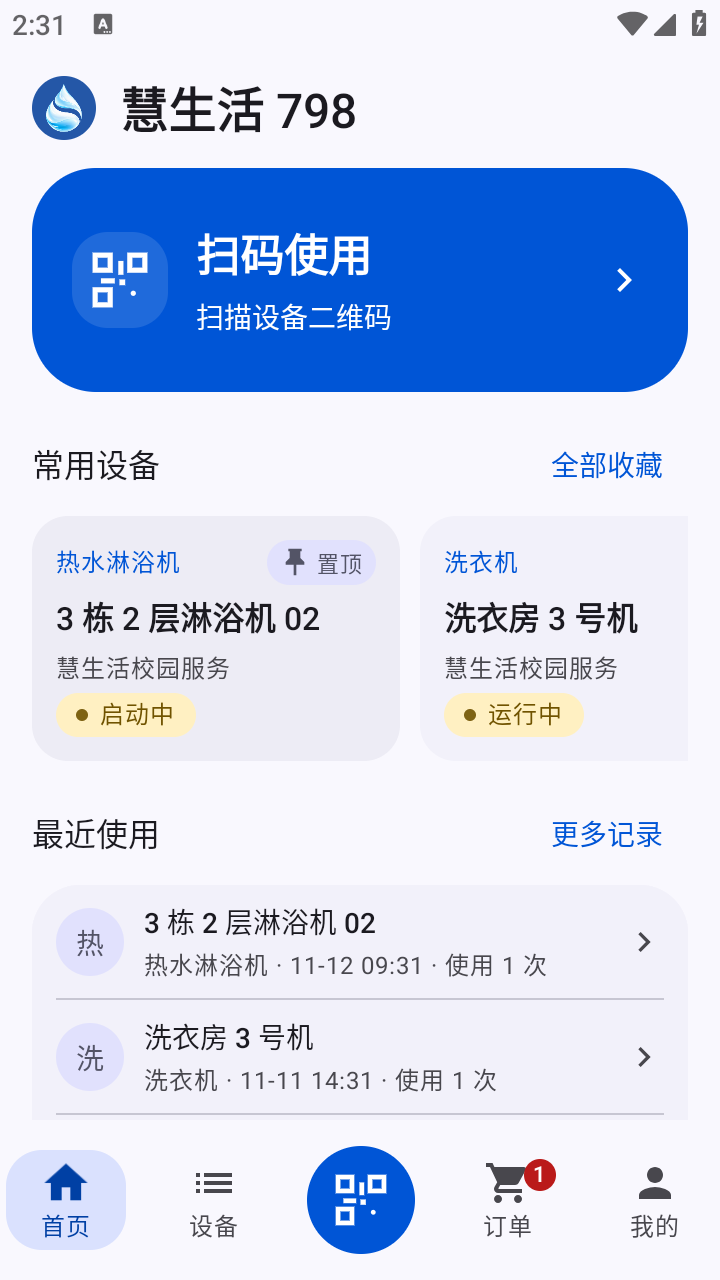
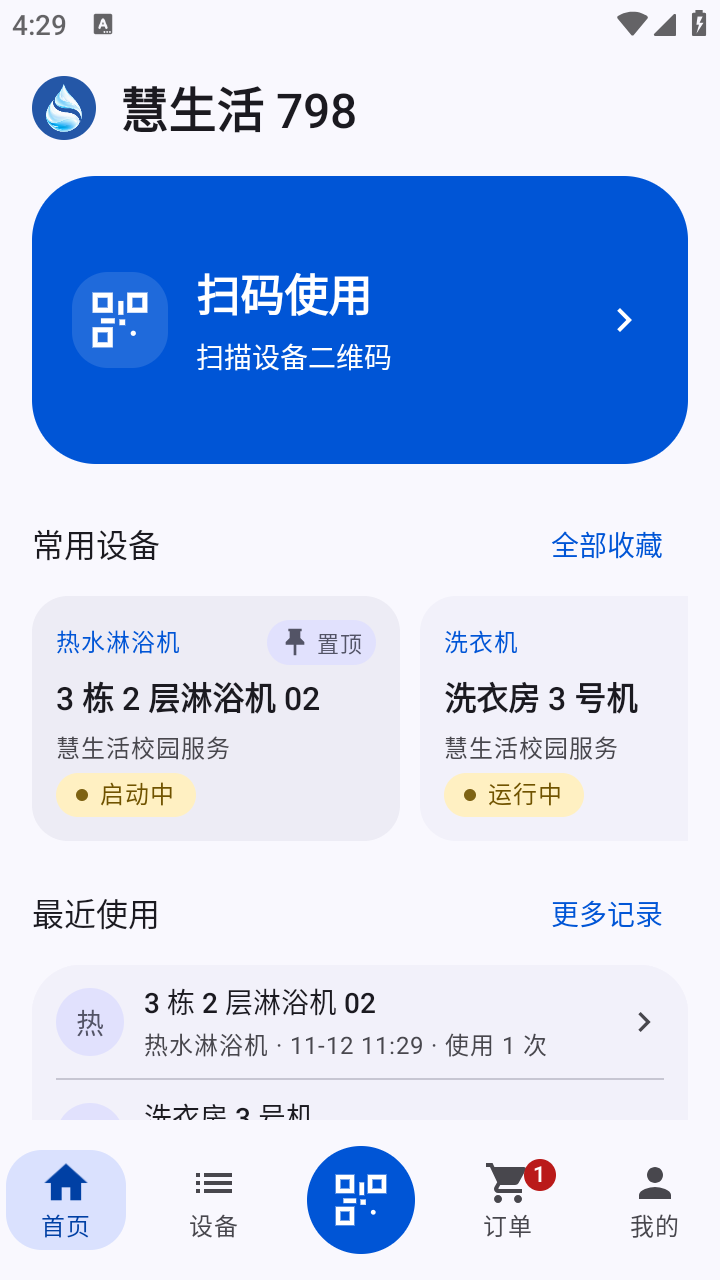
fix(ui): 放大扫码触控区并移除设备详情订单入口

diff --git a/SmartLife798/app/src/androidTest/java/com/smartlife798/app/VisualAlignmentChecks.kt b/SmartLife798/app/src/androidTest/java/com/smartlife798/app/VisualAlignmentChecks.kt
@@ -68,7 +68,7 @@ object VisualAlignmentChecks {
                     val height = test.targetContext.resources.displayMetrics.heightPixels
                     val density = test.targetContext.resources.displayMetrics.density
                     val scanCard = cardBounds(test, "扫码使用")
-                    check(scanCard.height() >= (112 * density).toInt()) { "Scan entry is too short: $scanCard" }
+                    check(scanCard.height() >= (144 * density).toInt()) { "Scan entry is too short: $scanCard" }
                     shell(test, "input swipe ${width / 2} ${height * 3 / 4} ${width / 2} ${height / 2} 250")
                     SystemClock.sleep(300)
                     val before = cardBounds(test, first.name)
@@ -95,6 +95,8 @@ object VisualAlignmentChecks {
                 capture("devices-${theme.name.lowercase()}")
                 open("3 栋 2 层淋浴机 02")
                 await { find(test, "当前模式") != null }
+                await { find(test, "已收藏") != null && find(test, "已置顶") != null }
+                check(find(test, "订单") == null) { "Device detail exposes the orders shortcut" }
                 capture("detail-${theme.name.lowercase()}")
                 back()
                 open("订单")
@@ -144,17 +146,30 @@ object VisualAlignmentChecks {
             repeat(cards - 1) { open("下一步"); SystemClock.sleep(400) }
             open("开始使用")
             await { vm.guideDeck.value == null }
-            stage = "scanner and manual input"
+            stage = "scanner upper edge and manual input"
             open("首页")
             await { find(test, "扫码使用") != null }
             SystemClock.sleep(500)
-            open("扫码使用")
+            val density = test.targetContext.resources.displayMetrics.density
+            val edgeInset = (8 * density).toInt()
+            val scanCard = cardBounds(test, "扫码使用")
+            shell(test, "input tap ${scanCard.centerX()} ${scanCard.top + edgeInset}")
             await { find(test, "手动输入") != null }
             capture("scan")
             open("手动输入")
             await { find(test, "查询设备") != null }
             capture("manual-input")
             back()
+            await { find(test, "手动输入") != null }
+            back()
+            await { find(test, "扫码使用") != null }
+            stage = "scanner lower edge and surrounding gap"
+            SystemClock.sleep(500)
+            val returnedScanCard = cardBounds(test, "扫码使用")
+            shell(test, "input tap ${returnedScanCard.centerX()} ${returnedScanCard.bottom + edgeInset}")
+            SystemClock.sleep(300)
+            check(find(test, "扫码使用") != null && find(test, "手动输入") == null)
+            shell(test, "input tap ${returnedScanCard.centerX()} ${returnedScanCard.bottom - edgeInset}")
             await { find(test, "手动输入") != null }
             back()
             await { find(test, "扫码使用") != null }

diff --git a/SmartLife798/app/src/main/java/com/smartlife798/app/ui/DeviceDetailScreen.kt b/SmartLife798/app/src/main/java/com/smartlife798/app/ui/DeviceDetailScreen.kt
@@ -91,7 +91,6 @@ fun DeviceDetailScreen(
     vm: MainViewModel,
     deviceId: String,
     onBack: () -> Unit,
-    onOpenOrders: () -> Unit,
     autoStart: Boolean = false,
     nfcTicket: String = "",
     onNeedPayment: () -> Unit = {},
@@ -462,7 +461,6 @@ fun DeviceDetailScreen(
                             }
                         },
                         onPin = { vm.togglePinned(deviceId) },
-                        onOpenOrders = onOpenOrders,
                     )
                 }
 
@@ -610,7 +608,6 @@ private fun HeroCard(
     onAction: () -> Unit,
     onFavorite: () -> Unit,
     onPin: () -> Unit,
-    onOpenOrders: () -> Unit,
 ) {
     val state = if (access?.notice != null) com.smartlife798.app.core.DeviceState(
         DeviceStateKind.RUNNING, access.label ?: "状态待确认",
@@ -741,14 +738,6 @@ private fun HeroCard(
                     )
                     Spacer(Modifier.width(4.dp))
                     Text(if (pinned) "已置顶" else "置顶", style = MaterialTheme.typography.labelMedium, maxLines = 2)
-                }
-                OutlinedButton(
-                    shapes = androidx.compose.material3.ButtonDefaults.shapes(),
-                    onClick = onOpenOrders,
-                    modifier = Modifier.weight(1f).heightIn(min = AppLayout.ActionHeight),
-                    contentPadding = androidx.compose.foundation.layout.PaddingValues(horizontal = 4.dp, vertical = 10.dp),
-                ) {
-                    Text("订单", style = MaterialTheme.typography.labelMedium, maxLines = 2)
                 }
             }
             Text(

diff --git a/SmartLife798/app/src/main/java/com/smartlife798/app/ui/HomeScreen.kt b/SmartLife798/app/src/main/java/com/smartlife798/app/ui/HomeScreen.kt
@@ -196,7 +196,9 @@ fun HomeScreen(
                     )
                 }
             }
-            item(key = "scan") { ScanHeroCard(onScan) }
+            item(key = "scan") {
+                ScanHeroCard(onScan, modifier = Modifier.padding(vertical = 4.dp))
+            }
             item(key = "favorites") {
                 Column(verticalArrangement = Arrangement.spacedBy(2.dp)) {
                     SectionHeader(
@@ -273,18 +275,18 @@ fun HomeScreen(
 }
 
 @Composable
-private fun ScanHeroCard(onScan: () -> Unit) {
+private fun ScanHeroCard(onScan: () -> Unit, modifier: Modifier = Modifier) {
     val palette = MaterialTheme.colorScheme.scanCardColors()
     Card(
         onClick = onScan,
-        modifier = Modifier.sharedCard(CardOrigin.HOME_SCAN).fillMaxWidth(),
+        modifier = modifier.sharedCard(CardOrigin.HOME_SCAN).fillMaxWidth(),
         shape = MaterialTheme.shapes.extraLarge,
         colors = CardDefaults.cardColors(containerColor = palette.container, contentColor = palette.content),
     ) {
         Row(
             modifier = Modifier
                 .fillMaxWidth()
-                .heightIn(min = 112.dp)
+                .heightIn(min = 144.dp)
                 .padding(horizontal = 20.dp, vertical = AppLayout.Card),
             verticalAlignment = Alignment.CenterVertically,
             horizontalArrangement = Arrangement.spacedBy(14.dp),

diff --git a/SmartLife798/app/src/androidTest/java/com/smartlife798/app/DetailRenderingChecks.kt b/SmartLife798/app/src/androidTest/java/com/smartlife798/app/DetailRenderingChecks.kt
@@ -144,8 +144,7 @@ object DetailRenderingChecks {
                                                 // Match a Navigation destination: reads may render at
                                                 // STARTED, but device polling waits for RESUMED.
                                                 CompositionLocalProvider(LocalLifecycleOwner provides entryOwner) {
-                                                    DeviceDetailScreen(vm, sample.id, onBack = { expanded = false },
-                                                        onOpenOrders = {})
+                                                    DeviceDetailScreen(vm, sample.id, onBack = { expanded = false })
                                                 }
                                             }
                                         } else {

diff --git a/SmartLife798/app/src/main/java/com/smartlife798/app/MainActivity.kt b/SmartLife798/app/src/main/java/com/smartlife798/app/MainActivity.kt
@@ -537,10 +537,6 @@ private fun AppRoot(
                                     autoStart = autoStart,
                                     nfcTicket = entry.arguments?.getString("nfcTicket").orEmpty(),
                                     onBack = { if (navController.currentBackStackEntry?.id == entry.id) navController.popBackStack() },
-                                    onOpenOrders = {
-                                        navController.popBackStack()
-                                        navigateTab(navController, "orders")
-                                    },
                                     onNeedPayment = {
                                         navigateTab(navController, "orders")
                                     },

diff --git a/SmartLife798/app/src/androidTest/java/com/smartlife798/app/DeviceAccessChecks.kt b/SmartLife798/app/src/androidTest/java/com/smartlife798/app/DeviceAccessChecks.kt
@@ -81,7 +81,7 @@ object DeviceAccessChecks {
                 val entry = ++render
                 scroll = LazyListState()
                 screen.setContent { SmartLifeTheme { key(entry) {
-                    DeviceDetailScreen(vm, "access-fixture", onBack = {}, onOpenOrders = {}, autoStart = auto,
+                    DeviceDetailScreen(vm, "access-fixture", onBack = {}, autoStart = auto,
                         listState = scroll)
                 } } }
             }

diff --git a/SmartLife798/app/src/androidTest/java/com/smartlife798/app/EndFlowChecks.kt b/SmartLife798/app/src/androidTest/java/com/smartlife798/app/EndFlowChecks.kt
@@ -88,7 +88,7 @@ object EndFlowChecks {
                     vm = ViewModelProvider(screen)[MainViewModel::class.java]
                     screen.setContent {
                         SmartLifeTheme {
-                            DeviceDetailScreen(vm, "end-fixture", onBack = {}, onOpenOrders = {})
+                            DeviceDetailScreen(vm, "end-fixture", onBack = {})
                         }
                     }
                 }

diff --git a/docs/02-功能设计与UI方案.md b/docs/02-功能设计与UI方案.md
@@ -126,7 +126,7 @@ App
           ├── 顶部：返回 / 标题 / 刷新
           ├── 主卡：类型 · 名称 · 状态 · 编号 · 商户 · 当前模式 · 更新时间
           ├── 主按钮：立即使用 / 结束使用并结算 / 离线禁用
-          ├── 次操作：收藏 · 置顶 · 订单
+          ├── 次操作：收藏 · 置顶
           ├── 模式选择（有 parts 时）
           ├── 支付方式（有 payItems 时，标注 SDK 限制）
           ├── 设备信息（名称/编号/类型/位置/单位/固件/说明/收藏态）
@@ -147,10 +147,10 @@ App
 
 ### 4.2 首页
 
-- 顶部显示应用图标与「慧生活 798」，页面沿统一边距对齐，分组间隔为 12dp，支持下拉刷新。
+- 顶部显示应用图标与「慧生活 798」，页面沿统一边距对齐，普通分组间隔为 12dp，支持下拉刷新。
 - **进行中使用卡片**优先置于扫码入口上方（主题 tertiary 色）：受理后先显示「启动待确认」，不显示用时或声称运行；确认后显示服务端状态、更新时间与本机用时。结束使用为卡片主按钮，下方提供查看设备和使用记录。结束期间保持卡片和「正在结束…」；未确认则提示并保留查询入口。返回首页与重建恢复、轮询及并发规则见 [启动确认与对账](03-技术方案与开发计划.md#31-全自动刷新无手动刷新按钮)。
 
-- **扫码主卡**：二维码图标、操作标题与一句说明，整卡最小高度为 112dp，点击任意位置打开相机。
+- **扫码主卡**：二维码图标、操作标题与一句说明，整卡最小高度为 144dp，上下与相邻区块至少间隔 16dp，点击卡片打开相机。
 - **常用设备**采用横滑卡片。多个收藏时，360dp 默认字号下单卡宽 184dp，让下一台设备露出更多；内容区能容纳两张易读卡片时并排完整展示。窄屏大字下卡片随字号加宽，单个收藏时占满内容区。卡片显示类型、名称、位置或编号、状态及置顶标记。
 - **最近使用**在同一容器中列出最多四条记录，使用紧凑的分隔行，每行触控区域至少 48dp；显示设备名称、类型、日期时间和使用次数。
 - 常用设备为空时提示从设备详情收藏，最近使用为空时提示暂无记录。
@@ -169,7 +169,7 @@ App
 - **主卡**：类型标签、设备名（大字）、状态胶囊、编号、商户；运行中时显示"当前模式/更新时间"。
 - **主按钮**：随状态与占用身份显示立即使用、本账号结束使用并结算、他人/未知占用禁用提示、离线、停用或蓝牙提示。忙碌时置灰并显示进度；受理、启动确认与结束确认分别表述，未知结果引导刷新，不提前显示成功。状态变化及时解锁，不加固定冷却；确认规则和 `StartCommandLock` 边界统一见 [docs/03](03-技术方案与开发计划.md#31-全自动刷新无手动刷新按钮)。
 
-- **次操作**：收藏（服务端）、置顶（本机）、订单（跳转）。
+- **次操作**：收藏（服务端）、置顶（本机），两个按钮等宽。
 - **模式**：Chip 组，来自 `bm.parts`，标注"费率来自服务端配置"。
 - **支付方式**：Chip 组，来自 `payItems`；支付宝（21）、余额类（91/92/93）及微信（11）按共用渠道能力选择；未集成渠道明确提示，微信实付另受开放平台配置约束。
 - **信息卡**：名称/编号（等宽字体）/类型/位置/服务单位/固件/使用说明/收藏状态。
@@ -361,19 +361,19 @@ App
 
 | 页面 | 文件 | 来源与限制 |
 |---|---|---|
-| 首页 | [home.png](../screenshots/home.png) | 2.2.8 / 88 离线开发构建，API 28，默认字号 |
+| 首页 | [home.png](../screenshots/home.png) | 2.2.9 / 89 离线开发构建，API 28，默认字号 |
 | 设备 | [devices.png](../screenshots/devices.png) | 2.1.1，浅色列表、置顶优先与可辨识的未选中按钮 |
 | 订单 | [orders.png](../screenshots/orders.png) | 2.1.1，普通记录 |
 | 待付款 | [preview_bills.png](../screenshots/preview_bills.png) | 2.1.1，账单筛选 |
 | 我的 | [me.png](../screenshots/me.png) | 2.1.1，账号资料均为离线夹具 |
 | 钱包 | [wallet.png](../screenshots/wallet.png) | 2.1.1，仅展示夹具商品、未创建充值单 |
-| 设备详情 | [device.png](../screenshots/device.png) | 2.1.1，仅读取夹具，不启停设备 |
+| 设备详情 | [device.png](../screenshots/device.png) | 2.2.9 / 89 离线开发构建，API 28，收藏和置顶等宽 |
 | 登录 | [login.png](../screenshots/login.png) | 2.2.5，API 36.1 离线模拟器，360dp、默认字体，图形码为测试夹具 |
 | 浅色外观 | [appearance_light.png](../screenshots/appearance_light.png) | 本次样式开发构建 2.1.2 / 70，API 28，浅色更新按钮与选项层级 |
 | 提示条 | [notice.png](../screenshots/notice.png) | 1.19.6，真实 Snackbar + 虚构签到响应 |
 | 账单详情 | [bill_detail.png](../screenshots/bill_detail.png) | 当前离线开发构建，固定视口、左暂不支付右去支付且等宽等高 |
 | 浅色支付面板 | [payment.png](../screenshots/payment.png) | 2.1.1，仅读取渠道，零付款/命令请求 |
-| 深色首页 | [dark.png](../screenshots/dark.png) | 2.2.8 / 88 离线开发构建，API 28，默认字号 |
+| 深色首页 | [dark.png](../screenshots/dark.png) | 2.2.9 / 89 离线开发构建，API 28，默认字号 |
 | 深色外观 | [appearance_dark.png](../screenshots/appearance_dark.png) | 本次样式开发构建 2.1.2 / 70，API 28，深色更新按钮与选项层级 |
 | 深色支付面板 | [payment_dark.png](../screenshots/payment_dark.png) | 2.1.1，未提交付款 |
 | 首次使用 | [guide-first.png](../screenshots/guide-first.png) | 2.1.1，独立离线包，三页基础卡 |

diff --git a/README.md b/README.md
@@ -6,7 +6,7 @@
 |---|---|
 | 正式版包名 | `com.smartlife798.app` |
 | Beta 版包名 | `com.smartlife798.app.debug` |
-| 当前版本 | `2.2.8`（`versionCode 88`） |
+| 当前版本 | `2.2.9`（`versionCode 89`） |
 | 技术栈 | Kotlin 2.2 · Jetpack Compose (Material 3 Expressive) · OkHttp · CameraX + ML Kit · Alipay SDK |
 | 最低版本 | Android 7.0（API 24） |
 | 正式发布 | [最新 Release](https://github.com/wu-shanglin/Smartlife798/releases/latest) |
@@ -15,7 +15,7 @@
 
 ## 当前版本
 
-**2.2.8 / 88**（开发候选）：首页提高扫码入口的最小高度，收紧常用设备和最近使用的布局。
+**2.2.9 / 89**（开发候选）：首页扫码卡最小高度提高至 144dp，增加与相邻区块的间距；设备详情移除「订单」跳转。
 
 **2.1.11 / 79** 适配原版 3.1.10 短信登录签名，补齐登录请求的 `sign` 参数。签名通过原版合成向量及离线登录验证，真实账号验收待完成。详见 [登录签名](docs/01-逆向分析报告.md#51-登录与账号)。
 
@@ -49,13 +49,13 @@
 
 ## 构建与产物
 
-2.2.8 为开发候选版本，日常试装使用独立 Debug 包。
+2.2.9 为开发候选版本，日常试装使用独立 Debug 包。
 
 唯一 Android 工程为 `SmartLife798/`；先按 [构建与运行](docs/03-技术方案与开发计划.md#4-构建与运行) 准备 JDK/SDK、本机 `local.properties`，再按 [检查与证据](docs/06-工程规范与路线图.md#2-检查与证据) 执行适用检查。release 签名及产物准备见 [版本与发布](docs/06-工程规范与路线图.md#3-版本与发布)。
 
 | 本地构建 | 文件 |
 |---|---|
-| 产物 | [`dist/SmartLife798-2.2.8-release.apk`](dist/SmartLife798-2.2.8-release.apk) |
+| 产物 | [`dist/SmartLife798-2.2.9-release.apk`](dist/SmartLife798-2.2.9-release.apk) |
 
 日常试装使用 `SmartLife798/app/build/outputs/apk/debug/app-debug.apk`。桌面的「慧生活 798 Beta 版」可与正式版并存，分别保存应用数据。上表是正式发布时的产物路径，只有明确授权打包 Release 并发布后才生成。
 
@@ -65,7 +65,7 @@
 
 ## 截图
 
-浅色与深色首页截图来自 2.2.8 / 88 的 API 28 离线构建；其他主要截图来自 2.1.1 / 69 候选的独立 `.offline` 夹具，使用真实 Compose 页面与终止式传输采集；此前默认字号与窄屏大字完成操作回归，不代表真机帧率、签到、充值或支付验收。提示条保留历史夹具来源。来源与限制见 [截图清单](docs/02-功能设计与UI方案.md#7-界面截图)。
+浅色、深色首页与设备详情截图来自 2.2.9 / 89 的 API 28 离线构建；其他主要截图来自 2.1.1 / 69 候选的独立 `.offline` 夹具，使用真实 Compose 页面与终止式传输采集；此前默认字号与窄屏大字完成操作回归，不代表真机帧率、签到、充值或支付验收。提示条保留历史夹具来源。来源与限制见 [截图清单](docs/02-功能设计与UI方案.md#7-界面截图)。
 
 | 首页 | 设备 | 订单 |
 |---|---|---|

diff --git a/CHANGELOG.md b/CHANGELOG.md
@@ -7,6 +7,8 @@
 
 ## [Unreleased]
 
+- 同步首页扫码卡、设备详情操作区的设计说明与截图。
+
 - 更新紧凑版首页设计说明和浅色、深色截图。
 
 - 同步加宽常用设备卡片后的浅色、深色首页截图与设计说明。
@@ -29,6 +31,13 @@
 - 核对 2.1.10 正式发布及公开更新附件。
 
 - 任务分支完成后同步清理已合并且不再使用的本地和远端分支。
+
+## [2.2.9] - 2026-11-12
+
+> Beta 构建，未正式发布。
+
+- 首页扫码卡最小高度提高至 144dp，上下与相邻区块至少间隔 16dp，便于点按。
+- 移除设备详情页的「订单」跳转，收藏与置顶按钮等宽排列。
 
 ## [2.2.8] - 2026-11-12
 
